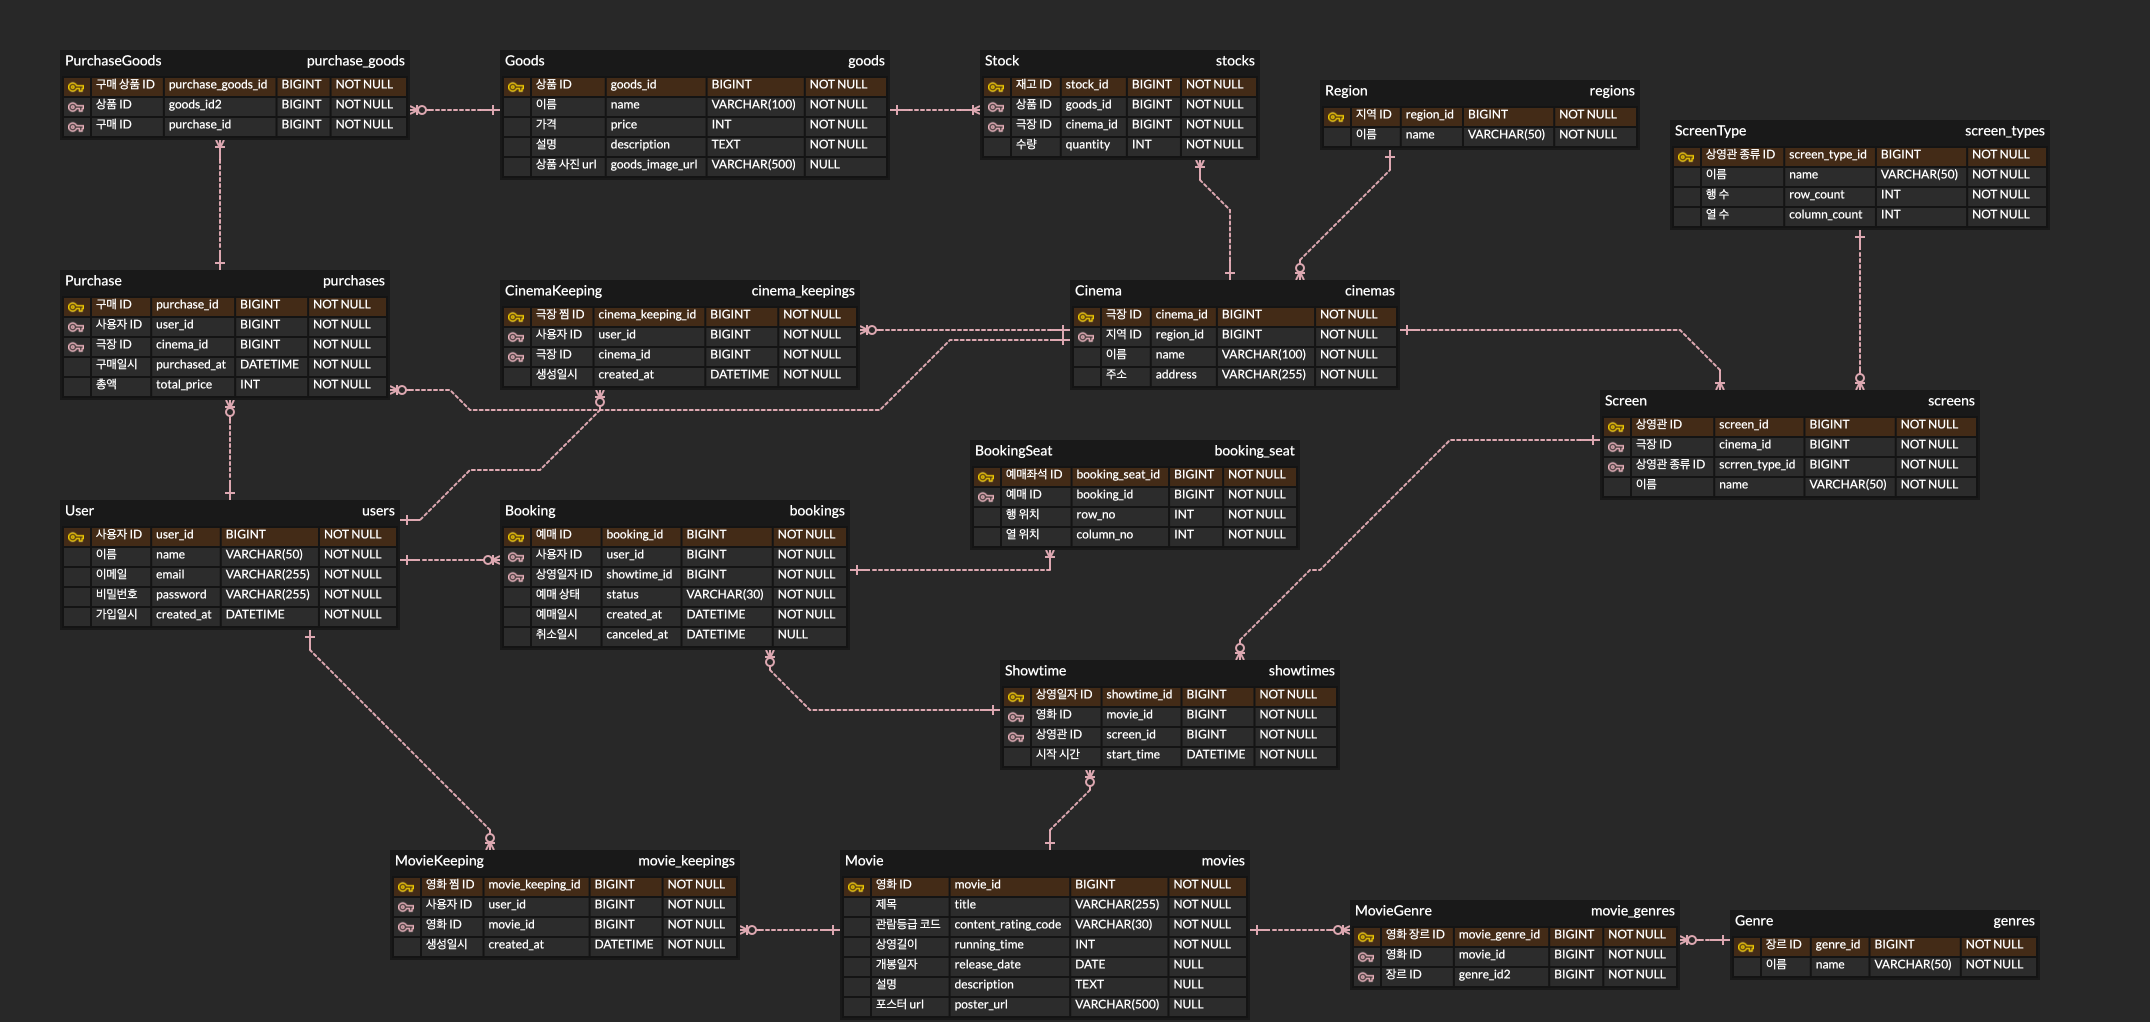
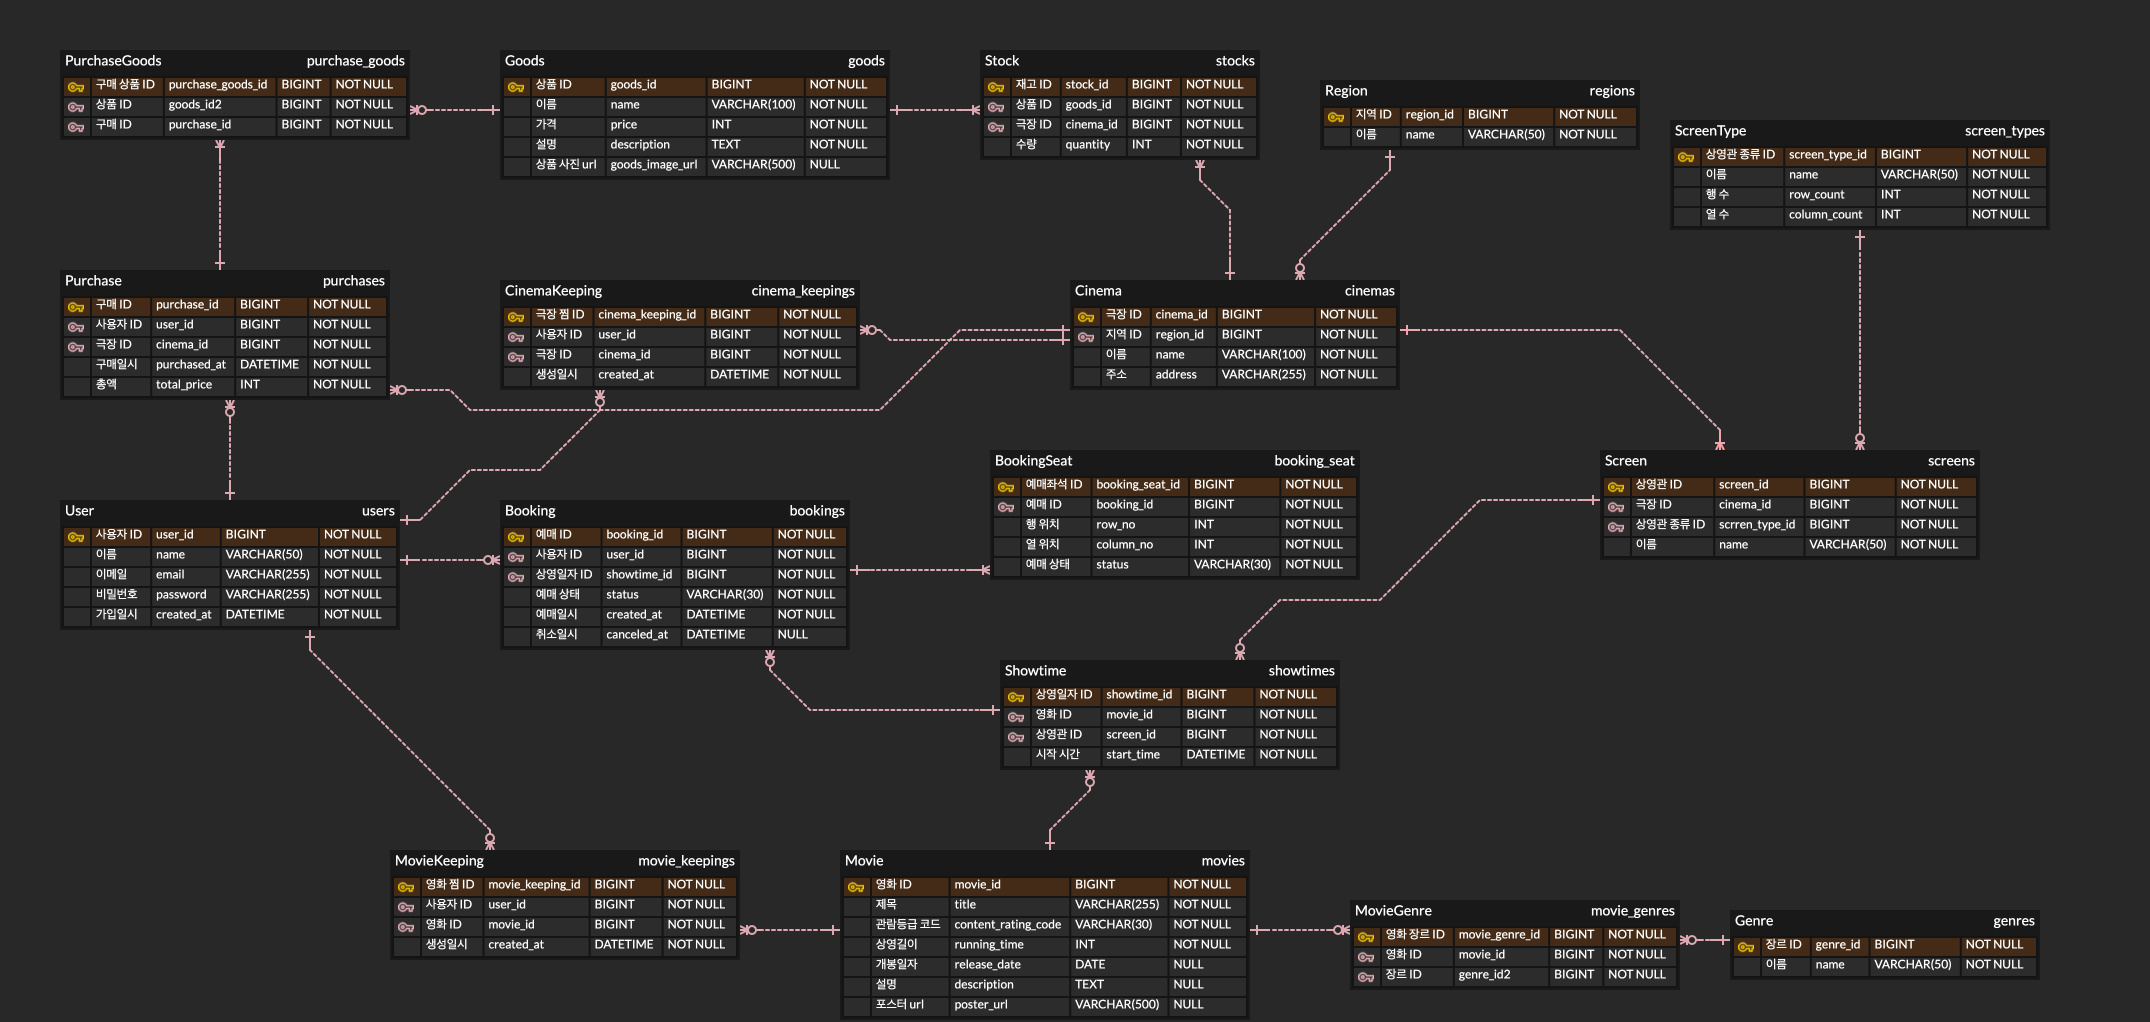
feat: 예매 취소 기능 구현

Changed region(s): [[0.7479, 0.3943, 0.9349, 0.546], [0.4363, 0.4247, 0.6544, 0.5763]]

diff --git a/src/main/java/com/cgvclone/cgv/domain/booking/Booking.java b/src/main/java/com/cgvclone/cgv/domain/booking/Booking.java
@@ -1,0 +1,76 @@
+package com.cgvclone.cgv.domain.booking;
+
+import com.cgvclone.cgv.domain.User.User;
+import com.cgvclone.cgv.domain.showtime.Showtime;
+import jakarta.persistence.CascadeType;
+import jakarta.persistence.Column;
+import jakarta.persistence.Entity;
+import jakarta.persistence.EnumType;
+import jakarta.persistence.Enumerated;
+import jakarta.persistence.FetchType;
+import jakarta.persistence.GeneratedValue;
+import jakarta.persistence.GenerationType;
+import jakarta.persistence.Id;
+import jakarta.persistence.JoinColumn;
+import jakarta.persistence.ManyToOne;
+import jakarta.persistence.OneToMany;
+import jakarta.persistence.Table;
+import java.time.LocalDateTime;
+import java.util.ArrayList;
+import java.util.List;
+import lombok.AccessLevel;
+import lombok.Builder;
+import lombok.Getter;
+import lombok.NoArgsConstructor;
+
+@Entity
+@Table(name = "bookings")
+@Getter
+@NoArgsConstructor(access = AccessLevel.PROTECTED)
+public class Booking {
+
+    @Id
+    @GeneratedValue(strategy = GenerationType.IDENTITY)
+    private Long bookingId;
+
+    @Enumerated(EnumType.STRING)
+    @Column(nullable = false, length = 30)
+    private BookingStatus status;
+
+    private LocalDateTime canceledAt;
+
+    @ManyToOne(fetch = FetchType.LAZY)
+    @JoinColumn(name = "user_id", nullable = false)
+    private User user;
+
+    @ManyToOne(fetch = FetchType.LAZY)
+    @JoinColumn(name = "showtime_id", nullable = false)
+    private Showtime showtime;
+
+    @OneToMany(mappedBy = "booking", cascade = CascadeType.ALL)
+    private List<BookingSeat> bookingSeats = new ArrayList<>();
+
+    @Builder
+    public Booking(User user, Showtime showtime) {
+        this.user = user;
+        this.showtime = showtime;
+        this.status = BookingStatus.BOOKED;
+    }
+
+    public void cancel(LocalDateTime currentTime) {
+        if (this.status == BookingStatus.CANCELLED) {
+            throw new IllegalStateException("이미 취소된 예약입니다.");
+        }
+
+        if (this.showtime.getStartTime().isBefore(currentTime)) {
+            throw new IllegalStateException("이미 상영이 시작되어 예매를 취소할 수 없습니다.");
+        }
+
+        this.status = BookingStatus.CANCELLED;
+        this.canceledAt = LocalDateTime.now();
+
+        for (BookingSeat seat : this.bookingSeats) {
+            seat.cancel();
+        }
+    }
+}

diff --git a/src/main/java/com/cgvclone/cgv/domain/booking/BookingSeat.java b/src/main/java/com/cgvclone/cgv/domain/booking/BookingSeat.java
@@ -1,7 +1,5 @@
-package com.cgvclone.cgv.domain.Booking;
+package com.cgvclone.cgv.domain.booking;
 
-import com.cgvclone.cgv.domain.User.User;
-import com.cgvclone.cgv.domain.showtime.Showtime;
 import jakarta.persistence.Column;
 import jakarta.persistence.Entity;
 import jakarta.persistence.EnumType;
@@ -13,40 +11,44 @@ import jakarta.persistence.Id;
 import jakarta.persistence.JoinColumn;
 import jakarta.persistence.ManyToOne;
 import jakarta.persistence.Table;
-import java.time.LocalDateTime;
 import lombok.AccessLevel;
 import lombok.Builder;
 import lombok.Getter;
 import lombok.NoArgsConstructor;
 
 @Entity
-@Table(name = "bookings")
+@Table(name = "booking_seats")
 @Getter
 @NoArgsConstructor(access = AccessLevel.PROTECTED)
-public class Booking {
+public class BookingSeat {
 
     @Id
     @GeneratedValue(strategy = GenerationType.IDENTITY)
-    private Long bookingId;
+    private Long bookingSeatId;
+
+    @Column(nullable = false)
+    private Integer rowNo;
+
+    @Column(nullable = false)
+    private Integer columnNo;
 
     @Enumerated(EnumType.STRING)
     @Column(nullable = false, length = 30)
     private BookingStatus status;
 
-    private LocalDateTime canceledAt;
-
     @ManyToOne(fetch = FetchType.LAZY)
-    @JoinColumn(name = "user_id", nullable = false)
-    private User user;
-
-    @ManyToOne(fetch = FetchType.LAZY)
-    @JoinColumn(name = "showtime_id", nullable = false)
-    private Showtime showtime;
+    @JoinColumn(name = "booking_id", nullable = false)
+    private Booking booking;
 
     @Builder
-    public Booking(User user, Showtime showtime) {
-        this.user = user;
-        this.showtime = showtime;
+    public BookingSeat(Integer rowNo, Integer columnNo, Booking booking) {
+        this.rowNo = rowNo;
+        this.columnNo = columnNo;
+        this.booking = booking;
         this.status = BookingStatus.BOOKED;
+    }
+
+    public void cancel() {
+        this.status = BookingStatus.CANCELLED;
     }
 }

diff --git a/src/main/java/com/cgvclone/cgv/domain/booking/BookingController.java b/src/main/java/com/cgvclone/cgv/domain/booking/BookingController.java
@@ -1,10 +1,11 @@
-package com.cgvclone.cgv.domain.Booking;
+package com.cgvclone.cgv.domain.booking;
 
 import static org.springframework.http.HttpStatus.CREATED;
 
-import com.cgvclone.cgv.domain.Booking.dto.BookingCreateRequest;
+import com.cgvclone.cgv.domain.booking.dto.BookingCreateRequest;
 import lombok.RequiredArgsConstructor;
 import org.springframework.http.ResponseEntity;
+import org.springframework.web.bind.annotation.PathVariable;
 import org.springframework.web.bind.annotation.PostMapping;
 import org.springframework.web.bind.annotation.RequestBody;
 import org.springframework.web.bind.annotation.RequestMapping;
@@ -20,6 +21,14 @@ public class BookingController {
     @PostMapping
     public ResponseEntity<Void> createBooking(@RequestBody BookingCreateRequest request) {
         bookingService.createBooking(request);
+        return ResponseEntity
+                .status(CREATED)
+                .build();
+    }
+
+    @PostMapping("/{bookingId}/cancel")
+    public ResponseEntity<Void> cancelBooking(@PathVariable Long bookingId) {
+        bookingService.cancelBooking(bookingId);
         return ResponseEntity
                 .status(CREATED)
                 .build();

diff --git a/src/main/java/com/cgvclone/cgv/domain/booking/BookingService.java b/src/main/java/com/cgvclone/cgv/domain/booking/BookingService.java
@@ -1,11 +1,12 @@
-package com.cgvclone.cgv.domain.Booking;
+package com.cgvclone.cgv.domain.booking;
 
-import com.cgvclone.cgv.domain.Booking.dto.BookingCreateRequest;
-import com.cgvclone.cgv.domain.Booking.dto.SeatRequest;
+import com.cgvclone.cgv.domain.booking.dto.BookingCreateRequest;
+import com.cgvclone.cgv.domain.booking.dto.SeatRequest;
 import com.cgvclone.cgv.domain.User.User;
 import com.cgvclone.cgv.domain.User.UserRepository;
 import com.cgvclone.cgv.domain.showtime.Showtime;
 import com.cgvclone.cgv.domain.showtime.ShowtimeRepository;
+import java.time.LocalDateTime;
 import java.util.List;
 import lombok.RequiredArgsConstructor;
 import org.springframework.stereotype.Service;
@@ -58,5 +59,12 @@ public class BookingService {
                         .build())
                 .toList();
         bookingSeatRepository.saveAll(bookingSeats);
+    }
+
+    public void cancelBooking(Long bookingId) {
+        Booking booking = bookingRepository.findById(bookingId)
+                .orElseThrow(() -> new IllegalArgumentException("Booking not found"));
+
+        booking.cancel(LocalDateTime.now());
     }
 }

diff --git a/src/main/java/com/cgvclone/cgv/domain/booking/BookingSeatRepository.java b/src/main/java/com/cgvclone/cgv/domain/booking/BookingSeatRepository.java
@@ -1,4 +1,4 @@
-package com.cgvclone.cgv.domain.Booking;
+package com.cgvclone.cgv.domain.booking;
 
 import java.util.List;
 import org.springframework.data.jpa.repository.JpaRepository;
@@ -10,6 +10,6 @@ public interface BookingSeatRepository extends JpaRepository<BookingSeat, Long> 
     @Query("SELECT bs FROM BookingSeat bs " +
             "JOIN bs.booking b " +
             "WHERE b.showtime.showtimeId = :showtimeId " +
-            "AND b.status = 'BOOKED'")
+            "AND bs.status = 'BOOKED'")
     List<BookingSeat> findBookedSeatsByShowtimeId(@Param("showtimeId") Long showtimeId);
 }

diff --git a/src/main/java/com/cgvclone/cgv/domain/booking/BookingRepository.java b/src/main/java/com/cgvclone/cgv/domain/booking/BookingRepository.java
@@ -1,4 +1,4 @@
-package com.cgvclone.cgv.domain.Booking;
+package com.cgvclone.cgv.domain.booking;
 
 import org.springframework.data.jpa.repository.JpaRepository;
 

diff --git a/src/main/java/com/cgvclone/cgv/domain/booking/dto/SeatRequest.java b/src/main/java/com/cgvclone/cgv/domain/booking/dto/SeatRequest.java
@@ -1,4 +1,4 @@
-package com.cgvclone.cgv.domain.Booking.dto;
+package com.cgvclone.cgv.domain.booking.dto;
 
 public record SeatRequest(
         Integer rowNo,

diff --git a/src/main/java/com/cgvclone/cgv/domain/booking/BookingStatus.java b/src/main/java/com/cgvclone/cgv/domain/booking/BookingStatus.java
@@ -1,4 +1,4 @@
-package com.cgvclone.cgv.domain.Booking;
+package com.cgvclone.cgv.domain.booking;
 
 public enum BookingStatus {
     BOOKED,

diff --git a/src/main/java/com/cgvclone/cgv/domain/booking/dto/BookingCreateRequest.java b/src/main/java/com/cgvclone/cgv/domain/booking/dto/BookingCreateRequest.java
@@ -1,4 +1,4 @@
-package com.cgvclone.cgv.domain.Booking.dto;
+package com.cgvclone.cgv.domain.booking.dto;
 
 import java.util.List;
 
